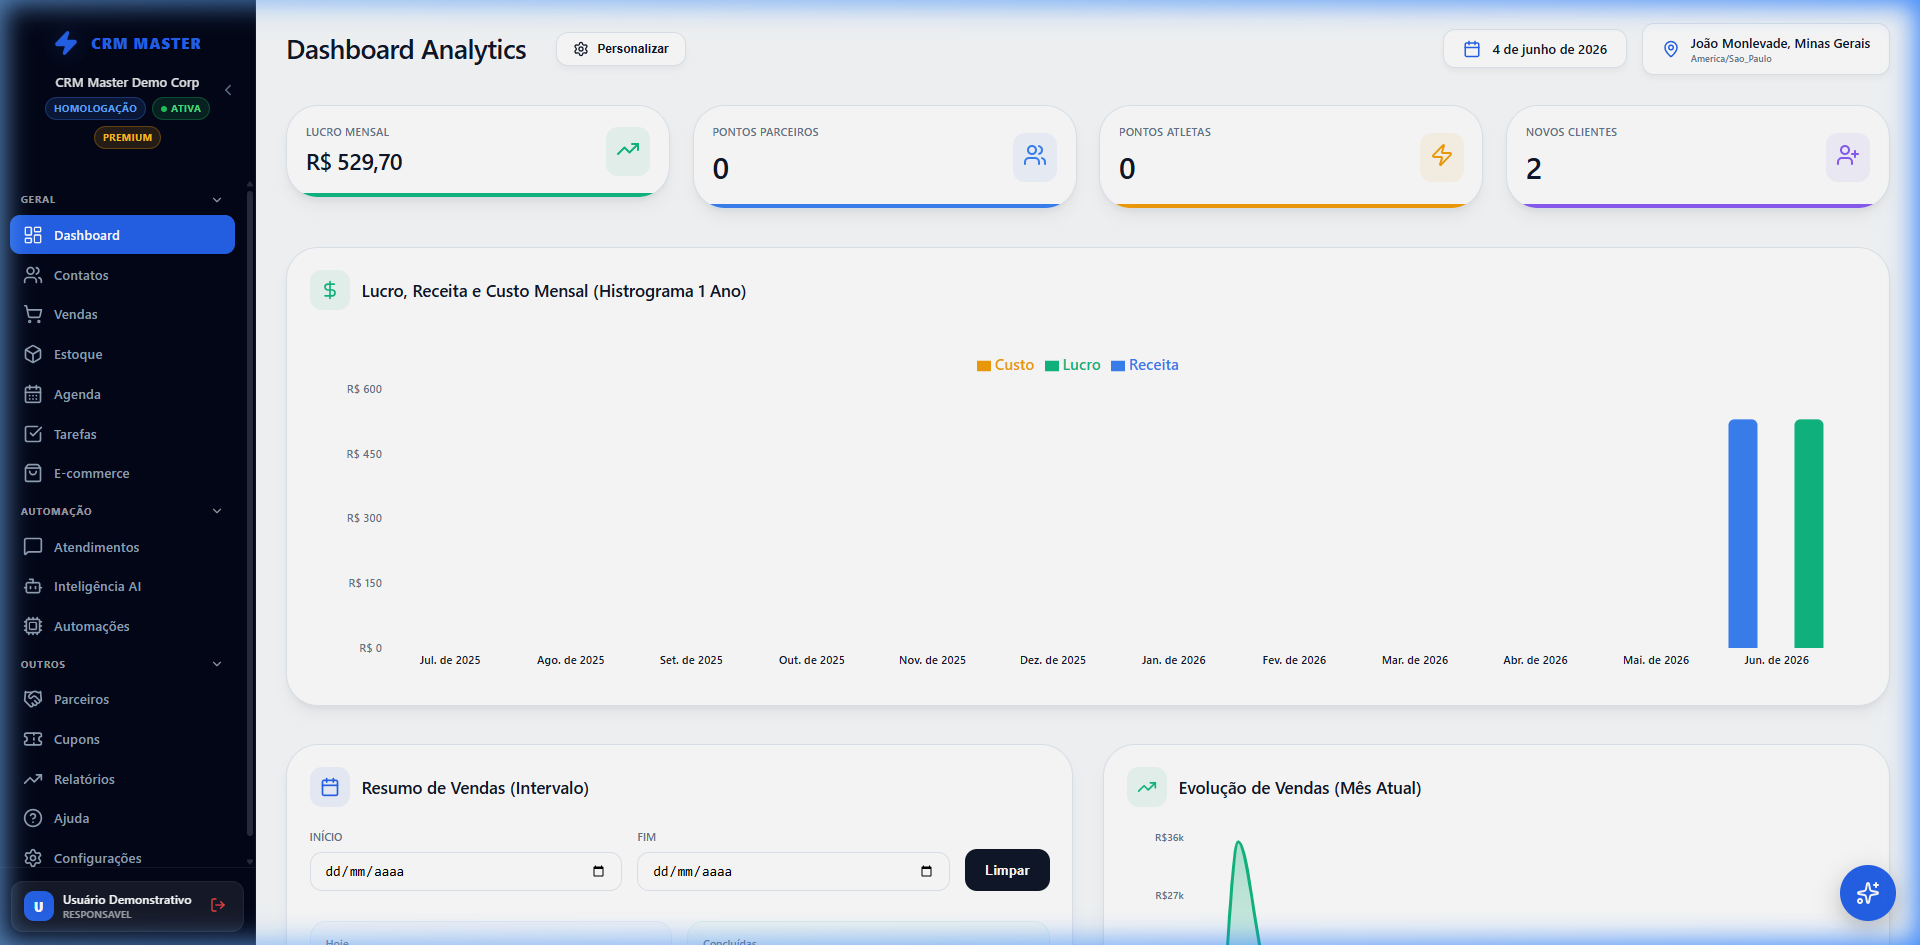
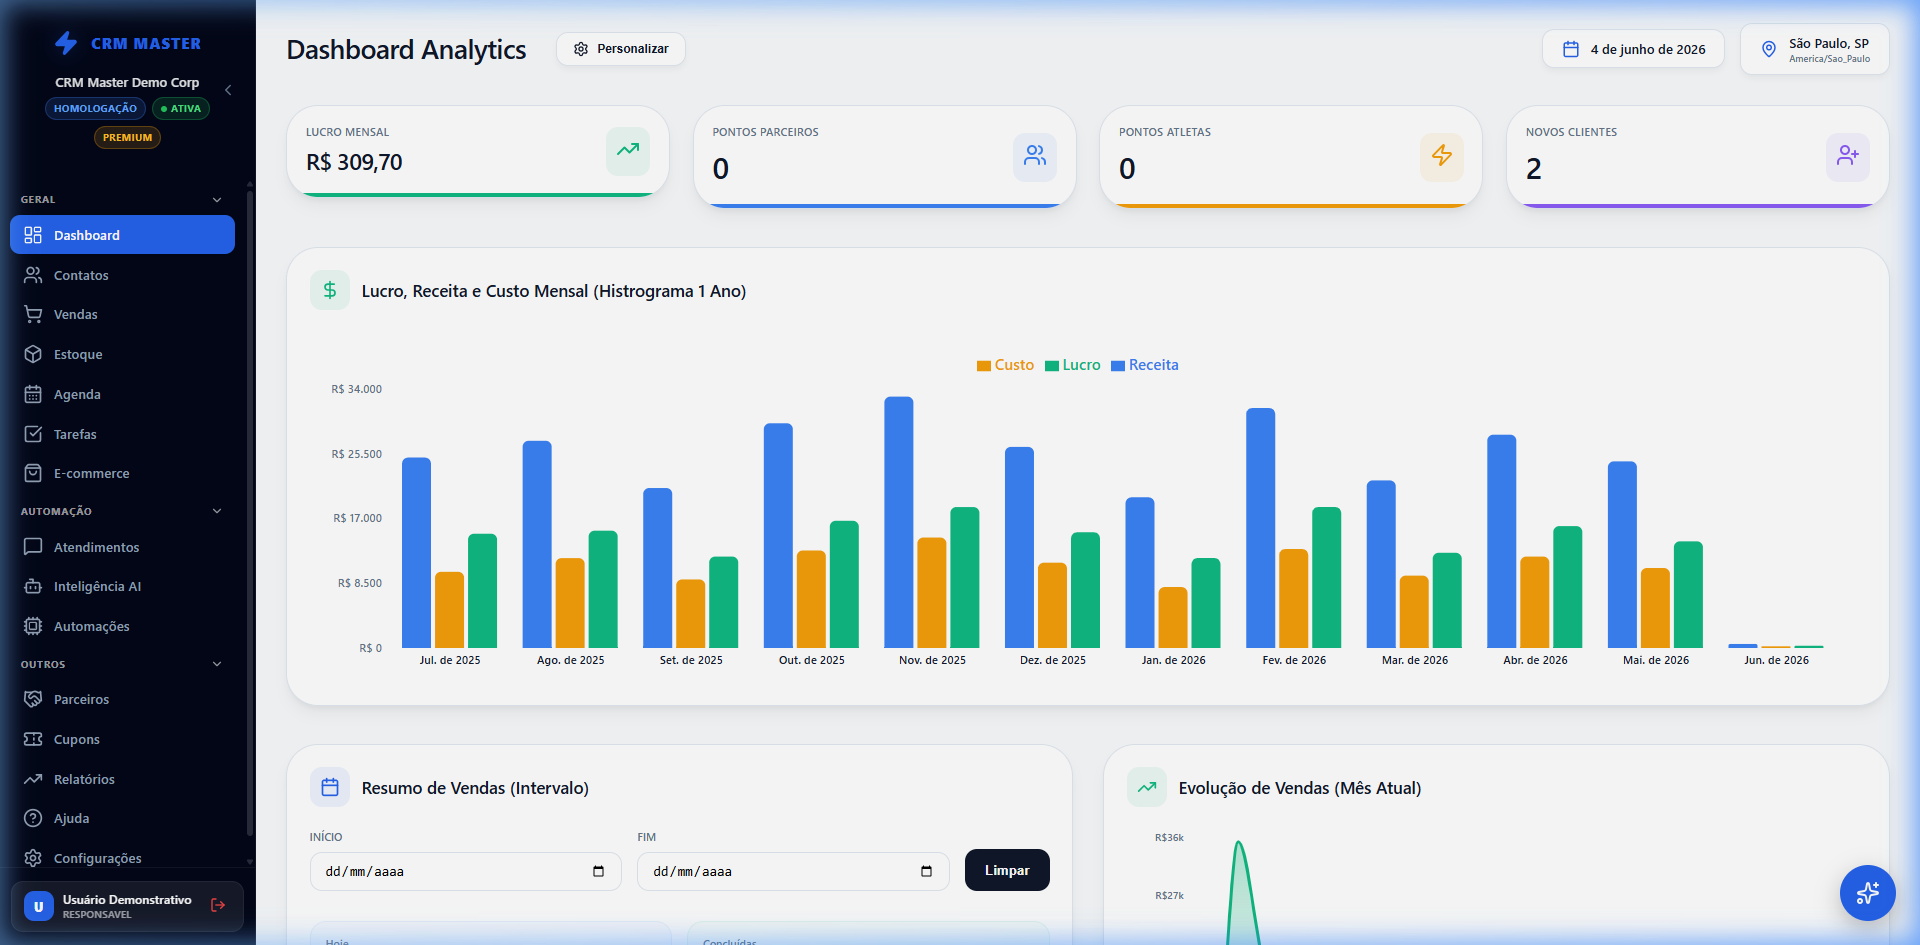
Demo 01 - Correções

diff --git a/src/mockFirebase/firestore.js b/src/mockFirebase/firestore.js
@@ -44,8 +44,9 @@ const initialData = {
     "sale-1": {
       id: "sale-1",
       client: { nome: "Lucas Fernandes", telefone: "(11) 98765-1234", cpf: "123.456.789-00" },
-      items: [{ id: "prod-1", name: "Camiseta Dry Fit Premium", quantity: 2, price: 8990, subtotal: 17980 }],
+      items: [{ id: "prod-1", name: "Camiseta Dry Fit Premium", quantity: 2, price: 8990, precoCusto: 3500, subtotal: 17980 }],
       total: 17980,
+      totalCost: 7000,
       paymentMethod: "pix",
       status: "concluido",
       createdAt: new Date(Date.now() - 3600000 * 2).toISOString(),
@@ -54,13 +55,27 @@ const initialData = {
     "sale-2": {
       id: "sale-2",
       client: { nome: "Mariana Alencar", telefone: "(21) 97654-3210", cpf: "987.654.321-11" },
-      items: [{ id: "prod-2", name: "Tênis Running Ultralight", quantity: 1, price: 34990, subtotal: 34990 }],
+      items: [{ id: "prod-2", name: "Tênis Running Ultralight", quantity: 1, price: 34990, precoCusto: 15000, subtotal: 34990 }],
       total: 34990,
+      totalCost: 15000,
       paymentMethod: "cartao_credito",
       status: "concluido",
       createdAt: new Date(Date.now() - 3600000 * 24).toISOString(),
       updatedAt: new Date(Date.now() - 3600000 * 24).toISOString()
     }
+  },
+  "business/demo-company/legacy": {
+    "legacy-1": { id: "legacy-1", status: "concluido", total: 2450000, totalCost: 1050000, createdAt: new Date(new Date().getFullYear(), new Date().getMonth() - 1, 15).toISOString() },
+    "legacy-2": { id: "legacy-2", status: "concluido", total: 2800000, totalCost: 1200000, createdAt: new Date(new Date().getFullYear(), new Date().getMonth() - 2, 15).toISOString() },
+    "legacy-3": { id: "legacy-3", status: "concluido", total: 2200000, totalCost: 950000, createdAt: new Date(new Date().getFullYear(), new Date().getMonth() - 3, 15).toISOString() },
+    "legacy-4": { id: "legacy-4", status: "concluido", total: 3150000, totalCost: 1300000, createdAt: new Date(new Date().getFullYear(), new Date().getMonth() - 4, 15).toISOString() },
+    "legacy-5": { id: "legacy-5", status: "concluido", total: 1980000, totalCost: 800000, createdAt: new Date(new Date().getFullYear(), new Date().getMonth() - 5, 15).toISOString() },
+    "legacy-6": { id: "legacy-6", status: "concluido", total: 2640000, totalCost: 1120000, createdAt: new Date(new Date().getFullYear(), new Date().getMonth() - 6, 15).toISOString() },
+    "legacy-7": { id: "legacy-7", status: "concluido", total: 3300000, totalCost: 1450000, createdAt: new Date(new Date().getFullYear(), new Date().getMonth() - 7, 15).toISOString() },
+    "legacy-8": { id: "legacy-8", status: "concluido", total: 2950000, totalCost: 1280000, createdAt: new Date(new Date().getFullYear(), new Date().getMonth() - 8, 15).toISOString() },
+    "legacy-9": { id: "legacy-9", status: "concluido", total: 2100000, totalCost: 900000, createdAt: new Date(new Date().getFullYear(), new Date().getMonth() - 9, 15).toISOString() },
+    "legacy-10": { id: "legacy-10", status: "concluido", total: 2720000, totalCost: 1180000, createdAt: new Date(new Date().getFullYear(), new Date().getMonth() - 10, 15).toISOString() },
+    "legacy-11": { id: "legacy-11", status: "concluido", total: 2500000, totalCost: 1000000, createdAt: new Date(new Date().getFullYear(), new Date().getMonth() - 11, 15).toISOString() }
   },
   "business/demo-company/tasks": {
     "task-1": { name: "Enviar proposta para Lucas", description: "Follow up da venda pendente", deadline: new Date(Date.now() + 86400000).toISOString().split("T")[0], priority: "high", status: "pending", createdAt: new Date().toISOString() },

diff --git a/src/App.jsx b/src/App.jsx
@@ -1,5 +1,5 @@
 import React, { useState, useEffect } from 'react';
-import { BrowserRouter as Router, Routes, Route, Navigate, useLocation } from 'react-router-dom';
+import { HashRouter as Router, Routes, Route, Navigate, useLocation } from 'react-router-dom';
 import Sidebar from './components/Sidebar';
 import Dashboard from './pages/Dashboard';
 import Contacts from './pages/Contacts';
@@ -70,7 +70,7 @@ const ProtectedRoute = ({ children, id }) => {
             Faça o upgrade para liberar este e outros recursos avançados.
           </p>
           <button
-            onClick={() => window.location.href = '/help?tab=plans'}
+            onClick={() => window.location.hash = '#/help?tab=plans'}
             style={{
               width: '100%', height: '56px', backgroundColor: t.accent, color: t.accentContrast,
               border: 'none', borderRadius: t.radiusSmall, fontWeight: 600, fontSize: '1rem',
@@ -115,7 +115,7 @@ const ProtectedRoute = ({ children, id }) => {
             Você não possui as permissões necessárias para acessar este módulo. Contate o administrador do sistema.
           </p>
           <button
-            onClick={() => window.location.href = '/'}
+            onClick={() => window.location.hash = '#/'}
             style={{
               width: '100%', height: '56px', backgroundColor: t.bgSecondary, color: t.text,
               border: t.border, borderRadius: t.radiusSmall, fontWeight: 600, fontSize: '1rem',

diff --git a/src/pages/Login.jsx b/src/pages/Login.jsx
@@ -74,7 +74,7 @@ export default function Login() {
       localStorage.removeItem('loginAttempts'); localStorage.removeItem('lockoutTime');
       if (saveIp) localStorage.setItem('trustedDevice', 'true');
       else localStorage.removeItem('trustedDevice');
-      window.location.href = '/';
+      window.location.href = './';
     } else {
       const n = attempts + 1; setAttempts(n); localStorage.setItem('loginAttempts', n.toString());
       const threshold = saveIp ? 1 : 5;

diff --git a/src/context/UserContext.jsx b/src/context/UserContext.jsx
@@ -313,7 +313,7 @@ export const UserProvider = ({ children }) => {
     await signOut(auth);
     localStorage.removeItem('activeCompany');
     sessionStorage.removeItem('session_logged');
-    window.location.href = '/';
+    window.location.href = './';
   };
 
   useEffect(() => {

diff --git a/vite.config.js b/vite.config.js
@@ -4,6 +4,7 @@ import path from 'path'
 
 // https://vite.dev/config/
 export default defineConfig({
+  base: './',
   plugins: [react()],
   resolve: {
     alias: {

diff --git a/README.md b/README.md
@@ -2,6 +2,8 @@
 
 O **CRM Master** é uma plataforma de gestão de relacionamento com o cliente (CRM) premium, moderna e inteligente, desenvolvida para acelerar a escala de vendas e simplificar a administração do seu negócio. Com uma interface moderna que suporta múltiplos temas (Clean, Dark, Dim, Midnight e High Contrast) e micro-interações fluidas, o sistema oferece controle total sobre vendas, faturamento, equipe e estoque.
 
+🔗 **[CLIQUE AQUI PARA VER A DEMONSTRAÇÃO ONLINE (LIVE DEMO)](https://brayner-ghost.github.io/CRM-Master---Demo/)**
+
 ---
 
 ## 📸 Imagens do Projeto
@@ -17,6 +19,30 @@ O dashboard centraliza os indicadores de saúde financeira da sua empresa, pontu
 ### 🔑 Tela de Acesso e Modo de Demonstração
 Tela de login segura, com transições suaves e um painel interativo de preenchimento automático para acesso de demonstração.
 ![Tela de Login](./public/assets/screenshot_login.png)
+
+---
+
+### 👥 Gestão de Clientes e Contatos
+Visualização organizada da base de clientes com filtros por plano, status de ativos e históricos detalhados.
+![Gestão de Clientes](./public/assets/screenshot_contacts.png)
+
+---
+
+### 📦 Controle de Estoque
+Acompanhe os produtos cadastrados, preço de venda, custo, quantidade disponível e a margem de lucro por item de forma clara.
+![Controle de Estoque](./public/assets/screenshot_inventory.png)
+
+---
+
+### 🧾 Cupons, Notas e Vendas
+Módulo de emissão de cupons fiscais e relatórios simplificados de faturamento e cupons ativos.
+![Cupons Fiscais](./public/assets/screenshot_coupons.png)
+
+---
+
+### 📊 Relatórios e Analytics
+Visualização gráfica do crescimento financeiro, comparativo de planos ativos, distribuição de vendas e estatísticas consolidadas.
+![Relatórios](./public/assets/screenshot_reports.png)
 
 ---
 
@@ -50,6 +76,7 @@ O CRM Master foi projetado para trabalhar perfeitamente integrado às principais
 ## 🛠 Tecnologias Utilizadas
 
 *   **Frontend**: [React.js](https://react.dev/) + [Vite](https://vite.dev/)
+*   **Roteamento**: [React Router](https://reactrouter.com/) (configurado com HashRouter para portabilidade estática)
 *   **Estilização & Animações**: [Framer Motion](https://www.framer.com/motion/) + Vanilla CSS customizado para máxima flexibilidade e performance.
 *   **Icons**: [Lucide React](https://lucide.dev/)
 *   **Mock Firebase Layer**: Arquitetura in-memory desacoplada, pronta para portar para produção.
@@ -78,10 +105,36 @@ O CRM Master foi projetado para trabalhar perfeitamente integrado às principais
 
 ---
 
+## 🌐 Deploy Automático (GitHub Pages)
+
+Configuramos o projeto para fazer o **deploy automático** diretamente no GitHub toda vez que você enviar novos commits para o repositório principal!
+
+### Como Funciona:
+1.  **Workflow Integrado**: Criamos o arquivo de automação `.github/workflows/deploy.yml`. Ele detecta os pushes na branch principal (`main` ou `master`), instala as dependências, constrói os arquivos estáticos e envia a build compilada para a branch `gh-pages`.
+2.  **Configuração de Rotas**: Adaptamos a aplicação com `HashRouter` e rotas relativas (`base: './'`), permitindo que a SPA (Single Page Application) rode direto em subdiretórios do GitHub Pages sem apresentar o erro "404" ao recarregar a tela.
+
+### Passo a Passo para Ativar no seu GitHub:
+1.  Envie as alterações para o seu repositório no GitHub:
+    ```bash
+    git add .
+    git commit -m "feat: setup gh-pages deploy and router updates"
+    git push origin master
+    ```
+2.  Aguarde a finalização da execução do fluxo no menu **Actions** do seu GitHub.
+3.  Vá em **Settings** (Configurações do seu repositório no GitHub) -> **Pages**.
+4.  No campo **Build and deployment** -> **Source**, garanta que esteja selecionado:
+    *   `Deploy from a branch`
+5.  Em **Branch**, selecione:
+    *   `gh-pages`
+    *   `/ (root)`
+6.  Clique em **Save**. Pronto! Seu site estará publicado e rodando no endereço:
+    `https://brayner-ghost.github.io/CRM-Master---Demo/`
+
+---
+
 ## 📧 Contato para Contratação e Orçamentos
 
 Interessado em implementar o CRM Master na sua empresa ou contratar o desenvolvimento de soluções personalizadas? Entre em contato agora mesmo:
 
 *   **E-mail**: [crmmaster@braynner.com.br](mailto:crmmaster@braynner.com.br)
 *   **WhatsApp**: [+55 (31) 99972-0489](https://wa.me/5531999720489?text=Ol%C3%A1%2C%20gostaria%20de%20saber%20mais%20sobre%20o%20CRM%20Master%21)
-
